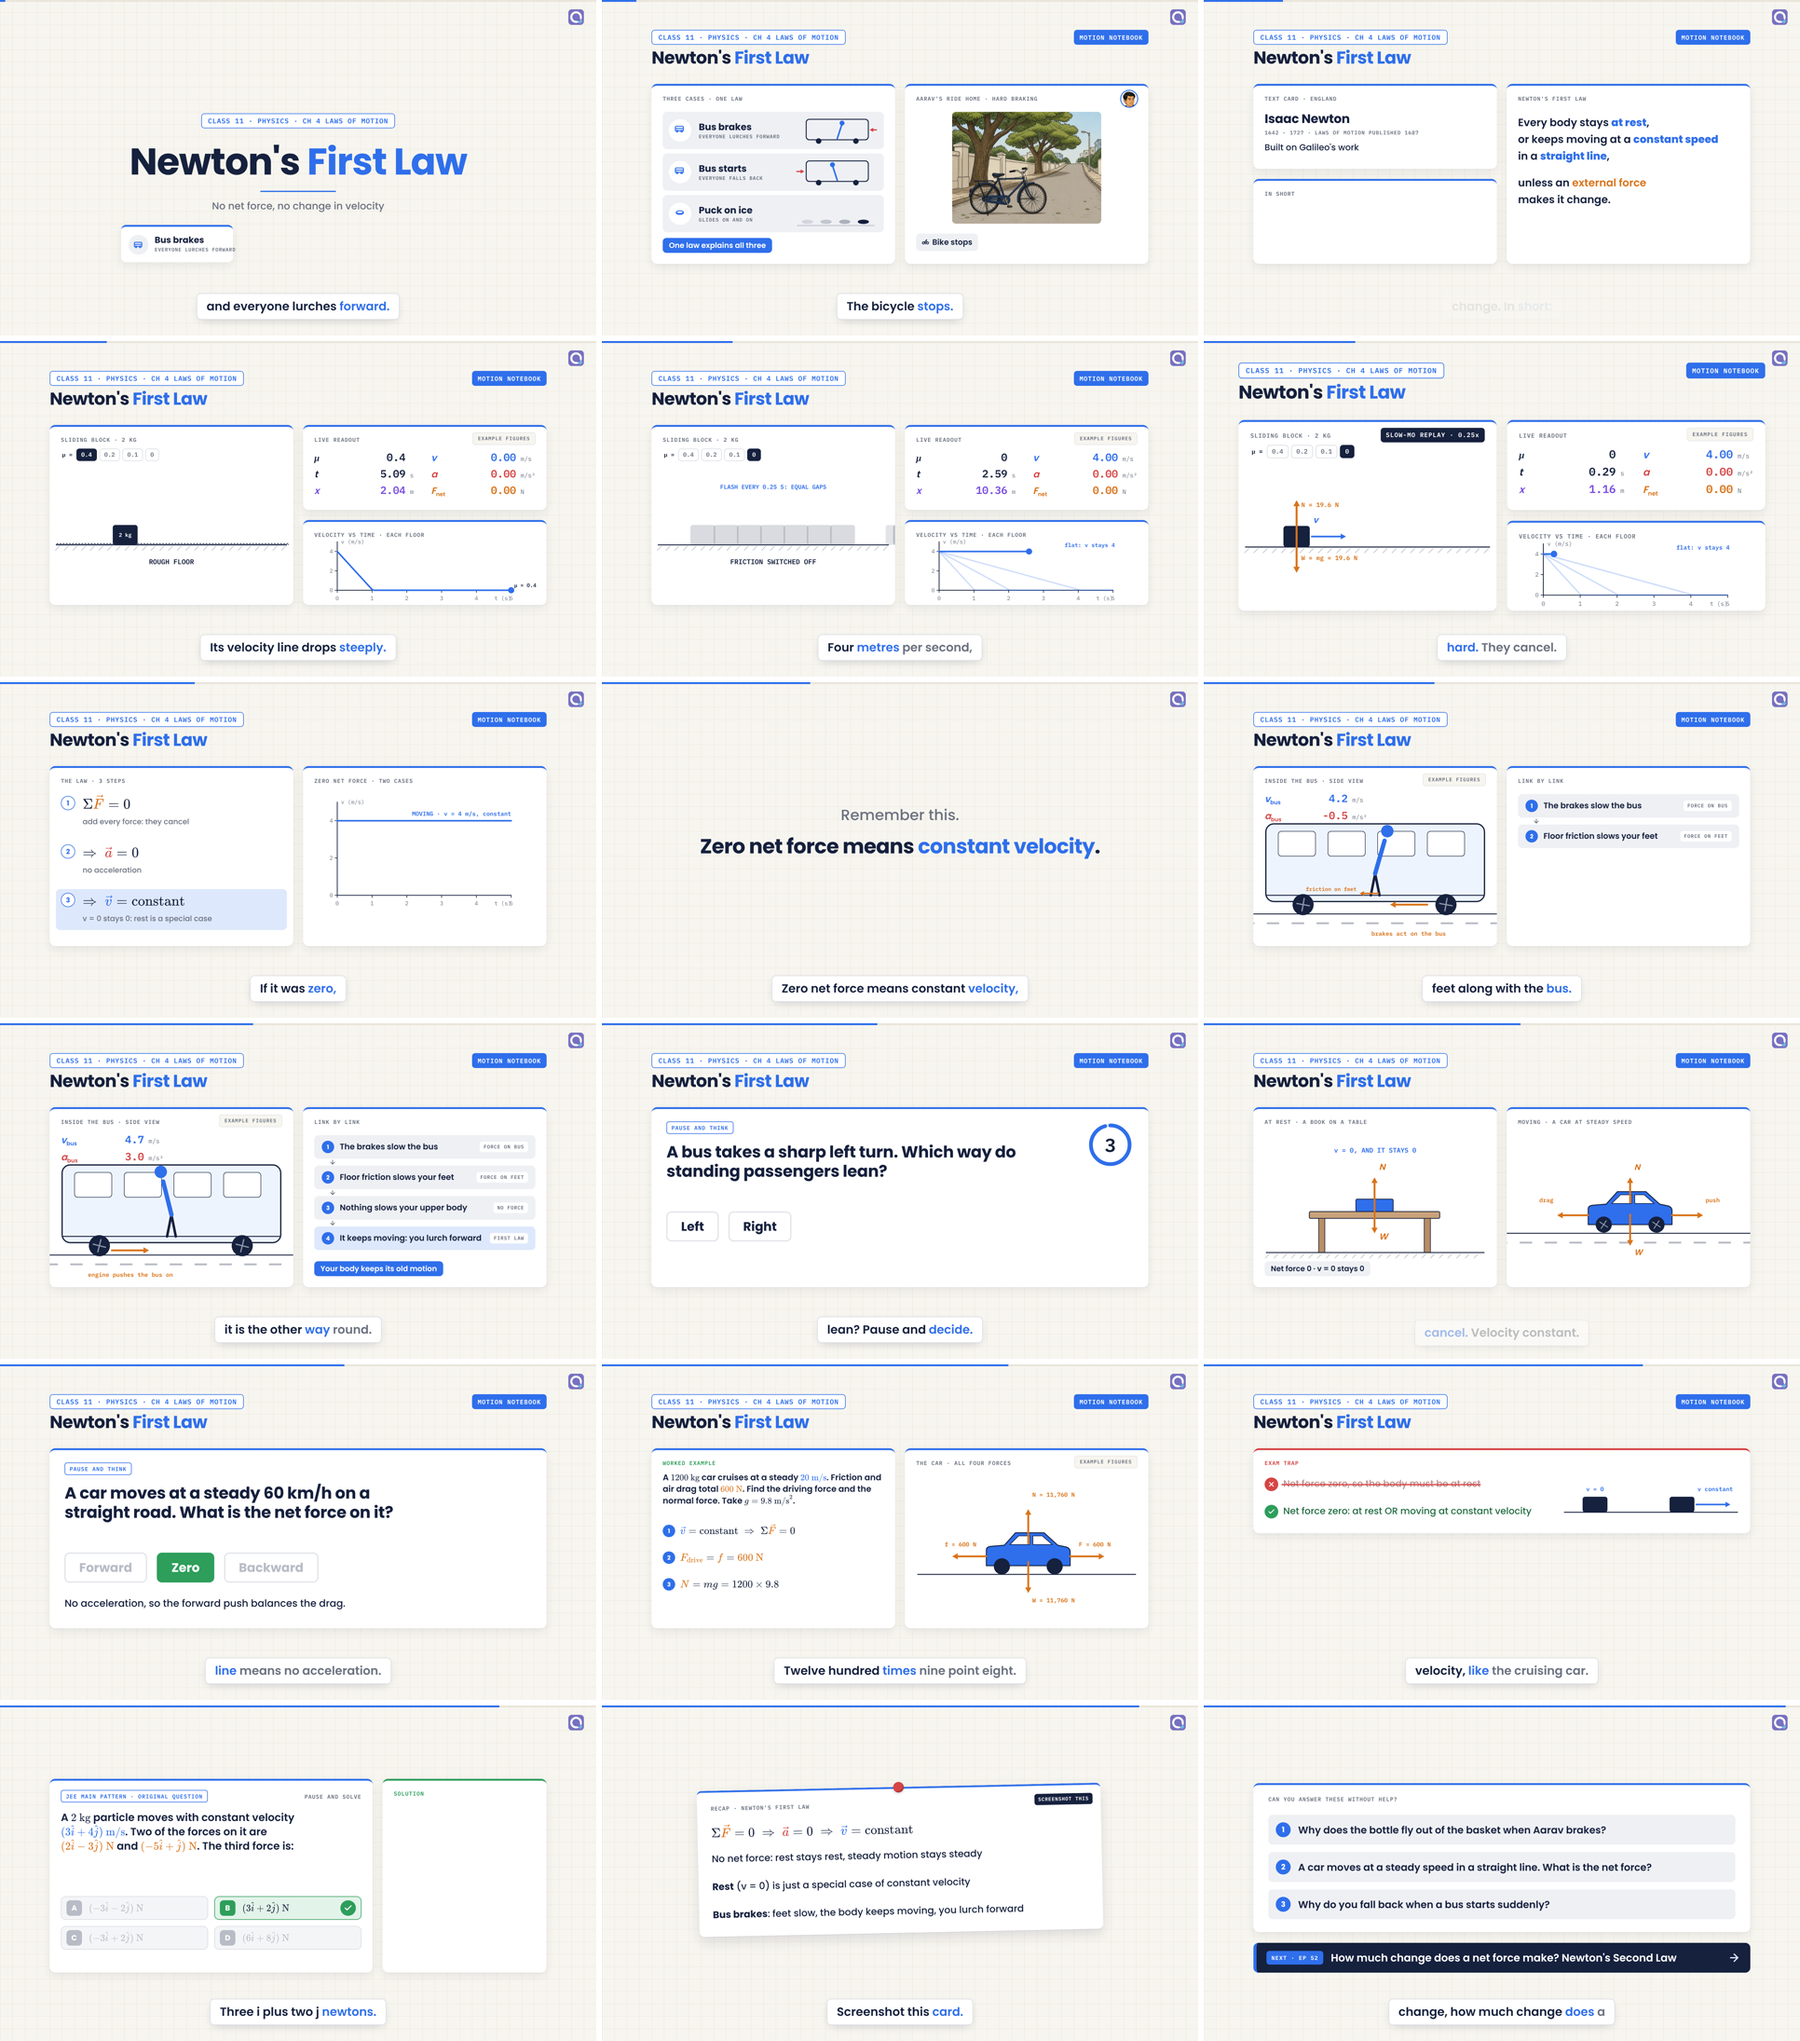
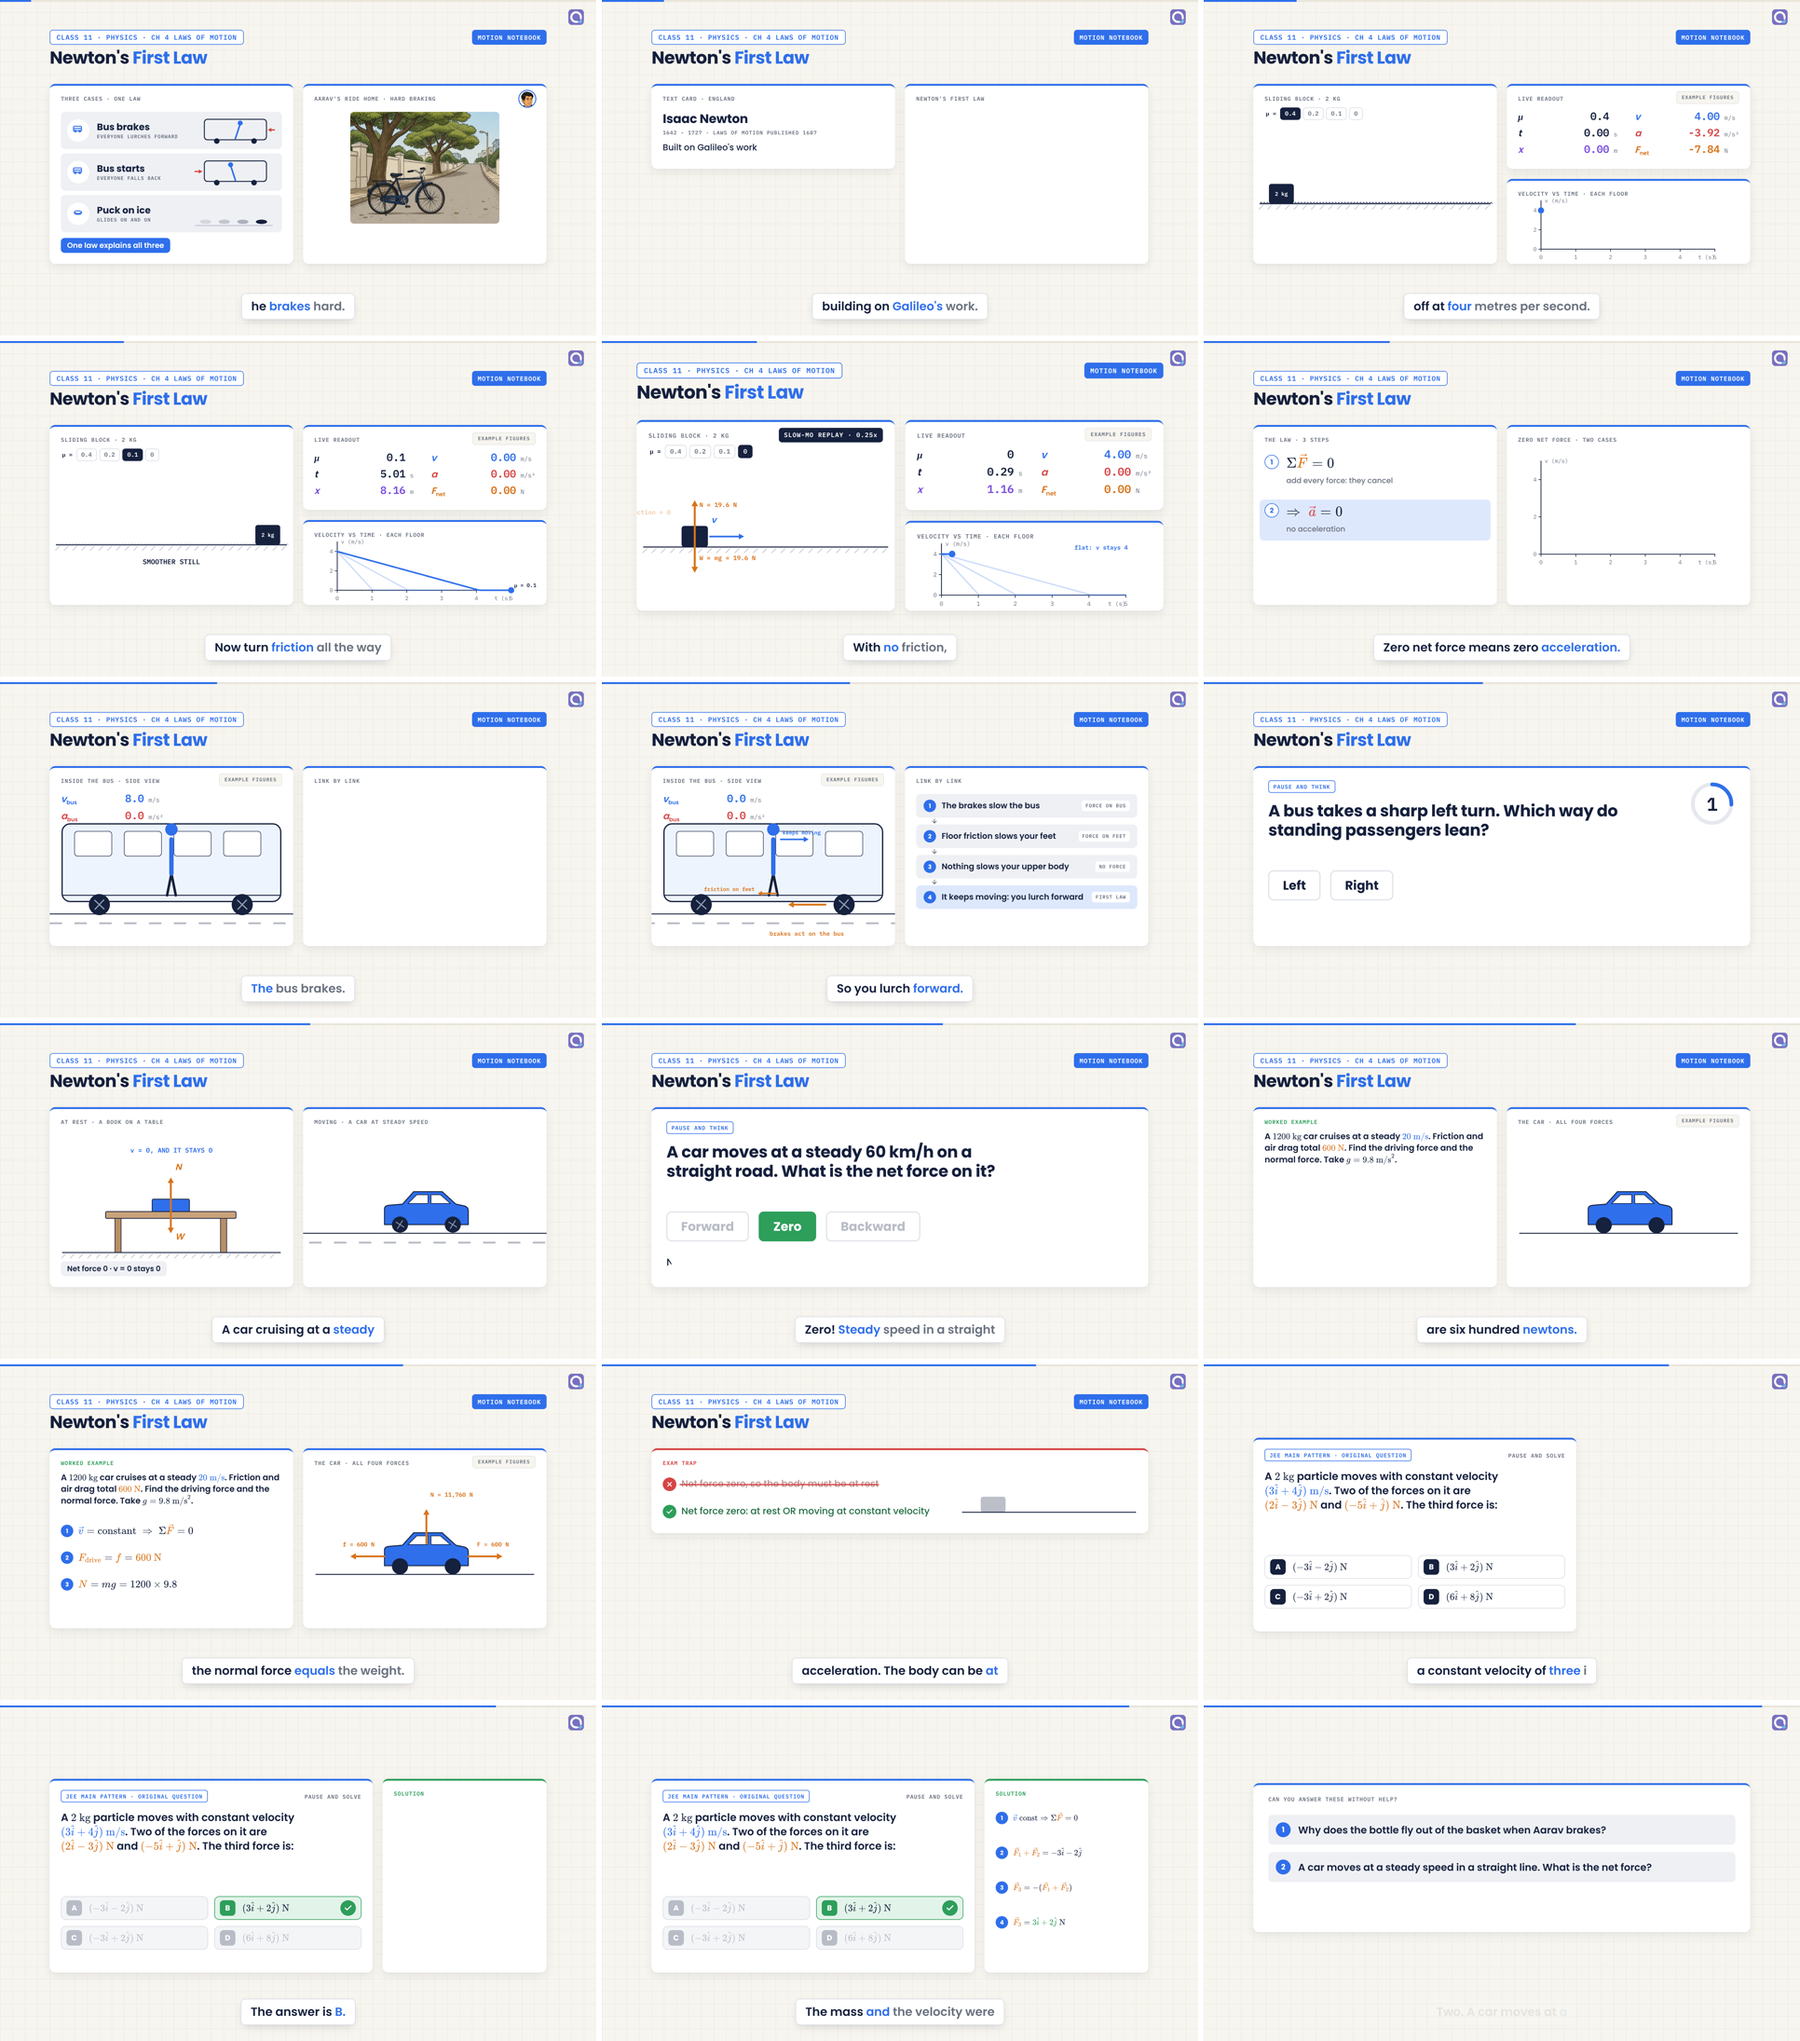
puc-physics Eps 50-51 reviewed, ready (Ep 51 bus start 1.5 m/s^2)
Claude-Session: https://claude.ai/code/session_01A9Yf9Ux47ei315g5AMbUHs

diff --git a/videos/puc-physics-newton-s-first-law/scene.js b/videos/puc-physics-newton-s-first-law/scene.js
@@ -114,7 +114,7 @@ const bBr = PUC.arrow(b, FC, 6, 18), bBrl = lab(b, 0, 0, '', FC, { 'text-anchor'
 const bFt = PUC.arrow(b, FC, 5, 14), bFtl = lab(b, 0, 0, 'friction on feet', FC, { 'text-anchor': 'middle', 'font-size': 17 });
 const bBv = PUC.arrow(b, VC, 5, 16), bBvl = lab(b, 0, 0, 'keeps moving', VC, { 'font-size': 17 });
 // bus speed: cruise 8 m/s, brake at -4 m/s^2 to rest, then start at +3 m/s^2 to 6 m/s
-const tBr = wt('B2', 'brakes'), tSt = wt('B6', 'starts'), VB0 = 8, AB = Math.round(10 * VB0 / (wt('B5', 'lurch') + 0.6 - wt('B2', 'brakes'))) / 10, AS = 3;
+const tBr = wt('B2', 'brakes'), tSt = wt('B6', 'starts'), VB0 = 8, AB = Math.round(10 * VB0 / (wt('B5', 'lurch') + 0.6 - wt('B2', 'brakes'))) / 10, AS = 1.5;
 const bv = t => { if (t < tBr) return VB0; if (t < tBr + VB0 / AB) return VB0 - AB * (t - tBr); if (t < tSt) return 0; return Math.min(6, AS * (t - tSt)); };
 const ba = t => { if (t >= tBr && t < tBr + VB0 / AB) return -AB; if (t >= tSt && t < tSt + 2) return AS; return 0; };
 const bx = t => { const t0 = tB1 - 0.5; let x = 0; const n = 400; const T = t - t0; if (T <= 0) return 0; for (let i = 0; i < n; i++) x += bv(t0 + T * (i + 0.5) / n) * T / n; return x; };
